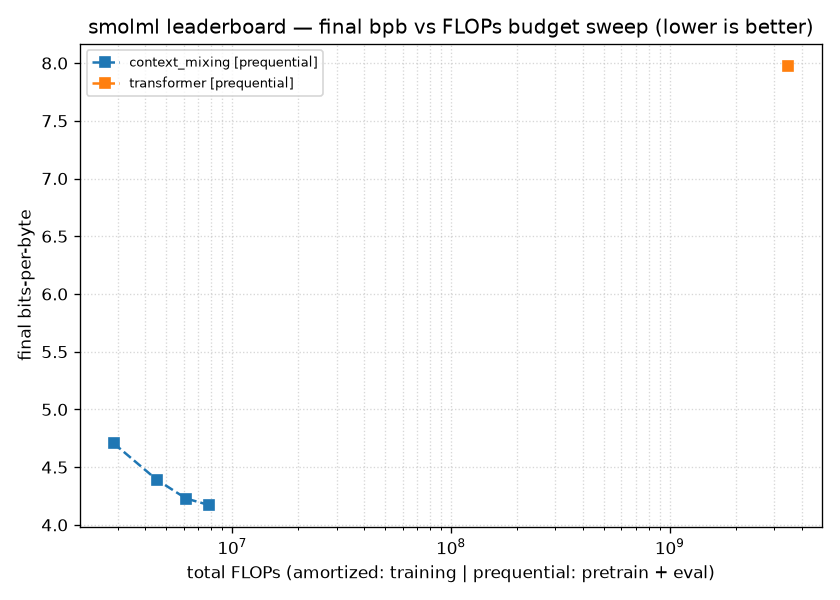
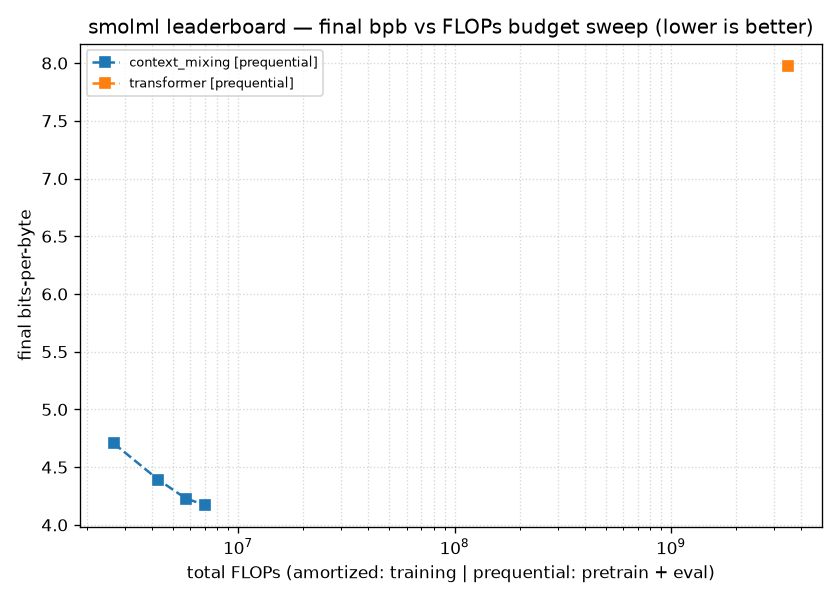
0.3 docs: refresh curve + FLOP table for exact per-branch accounting
Regenerated reference curve with exact charges (order-3 7.79e6 -> 7.02e6 FLOPs;
bpb unchanged). Concept-page FLOP table now shows the per-branch (dynamic) charge
with n_active/n_seen/n_fold; experiment entry updated (totals, ~500x gap, per-byte
cost note). Reference-vs-untrained-transformer plot re-rendered.

diff --git a/docs/learning/concepts/context-mixing.md b/docs/learning/concepts/context-mixing.md
@@ -69,17 +69,23 @@ the logistic mix/update**, all `O(K·V)` per byte (`K` = number of specialists).
 [FLOP counter](loss-per-flop-and-scaling-laws.md) omits elementwise work for the transformer
 *only because matmuls dominate there*; that omission is **conditional**. So every per-byte
 operation here is charged through the non-matmul primitives `pointwise_flops` / `gather_flops`.
-Per byte (derived in `ContextMixing.step_flops`):
+Each step charges **exactly the branches it actually runs** (`ContextMixing._flop_breakdown`) —
+not a constant per-byte estimate, which would over-charge early bytes and abstaining specialists.
+With `K` predictors and `V = 256`, where `n_active` = specialists with available context this
+byte, `n_seen` = those whose exact context was seen before, `n_fold` = orders folded:
 
 | phase | work | FLOPs |
 | --- | --- | --- |
-| predict | `K` context lookups | `gather(K)` |
-| predict | Laplace prob (`≈3V`) + stretch (`V`) + mix (`2KV`) + softmax (`5V`) | `pointwise(6KV + 5V)` |
-| adapt | error (`V`) + gradient (`2KV`) + weight step (`2K`) + `K` count folds | `pointwise(2KV + V + 3K)` + `gather(K)` |
+| predict | one lookup per available specialist | `gather(n_active)` |
+| predict | Laplace prob (`≈3V`) only for the `n_seen` seen contexts | `pointwise(3V·n_seen)` |
+| predict | stretch `log p_k` (every predictor) + mix (`2KV`) + softmax (`5V`) | `pointwise(KV + 2KV + 5V)` |
+| adapt | `n_fold` count increments + their lookups | `pointwise(n_fold)` + `gather(n_fold)` |
+| adapt | mixer update *only if a prediction is pending*: one-hot subtract (`1`) + gradient (`2KV`) + weight step (`2K`) | `pointwise(1 + 2KV + 2K)` |
 
-For `K = 4`, `V = 256` that is ≈ 9.7k FLOPs/byte — small, but **counted**. Leaving it uncharged
-would let the reference look artificially free; the whole point of the primitives is that it does
-not.
+So byte 0 (no pending prediction, empty context) is cheap; a fully-warmed byte costs more. In
+steady state (`K = 4`, all specialists active and seen) that is ≈ 9.5k FLOPs/byte — small, but
+**counted to the FLOP**. Leaving it uncharged would let the reference look artificially free; the
+whole point of the primitives is that it does not.
 
 ## Worked example
 

diff --git a/docs/learning/experiments/index.md b/docs/learning/experiments/index.md
@@ -35,14 +35,15 @@ on top. Each entry should link the concept pages it touches and embed/link the b
   `transformer` (d=32, L=2, ctx=64) on the same stream. Seed 0, CPU. All per-byte compute
   charged via the non-matmul `pointwise`/`gather` primitives.
 - **Result:** bpb falls as orders (and per-byte FLOPs) rise; the untrained transformer is far
-  worse at ~450× the compute.
+  worse at ~500× the compute. (FLOPs are charged exactly per byte for the branches each step
+  runs — see below — so these totals are executed work, not a constant estimate.)
 
   | run | bpb | total FLOPs |
   | --- | ---: | ---: |
-  | context_mixing order 0..3 (reference) | **4.1733** | 7.79e6 |
-  | context_mixing order 0..2 (reference) | 4.2284 | 6.15e6 |
-  | context_mixing order 0..1 (reference) | 4.3922 | 4.51e6 |
-  | context_mixing order 0..0 (reference) | 4.7066 | 2.87e6 |
+  | context_mixing order 0..3 (reference) | **4.1733** | 7.02e6 |
+  | context_mixing order 0..2 (reference) | 4.2284 | 5.74e6 |
+  | context_mixing order 0..1 (reference) | 4.3922 | 4.28e6 |
+  | context_mixing order 0..0 (reference) | 4.7066 | 2.66e6 |
   | transformer (untrained, contrast) | 7.9786 | 3.48e9 |
 
   ![Reference bpb-vs-FLOP curve: context mixing (reference, not a candidate) vs an untrained
@@ -52,8 +53,10 @@ on top. Each entry should link the concept pages it touches and embed/link the b
   sweep; the orange point is the untrained transformer contrast. Lower-left is better._
 - **Verdict:** reference ceiling established. Single-pass online mixing reaches ≈4.17 bpb for
   <1e7 FLOPs; the untrained transformer needs 3.5e9 FLOPs to manage ≈8.0 bpb.
-- **What we learned:** (1) The non-matmul FLOP primitives matter — the reference's ~9.7k
-  FLOPs/byte is real, charged work, not free. (2) On this *real-English* corpus higher orders
+- **What we learned:** (1) The non-matmul FLOP primitives matter — the reference's per-byte cost
+  (order-3 averages ~8.8k FLOPs/byte, steady-state ~9.5k) is real, charged work, not free, and is
+  charged *exactly* for the branches each `step` runs (no constant over-estimate). (2) On this
+  *real-English* corpus higher orders
   genuinely help (bigram/trigram structure); on the synthetic `text8` clone, whose letters are
   i.i.d. within words, orders >0 add ~nothing — an honest reminder that the curve's shape is a
   property of the corpus, not just the model. (3) A trained transformer would beat this bpb, but